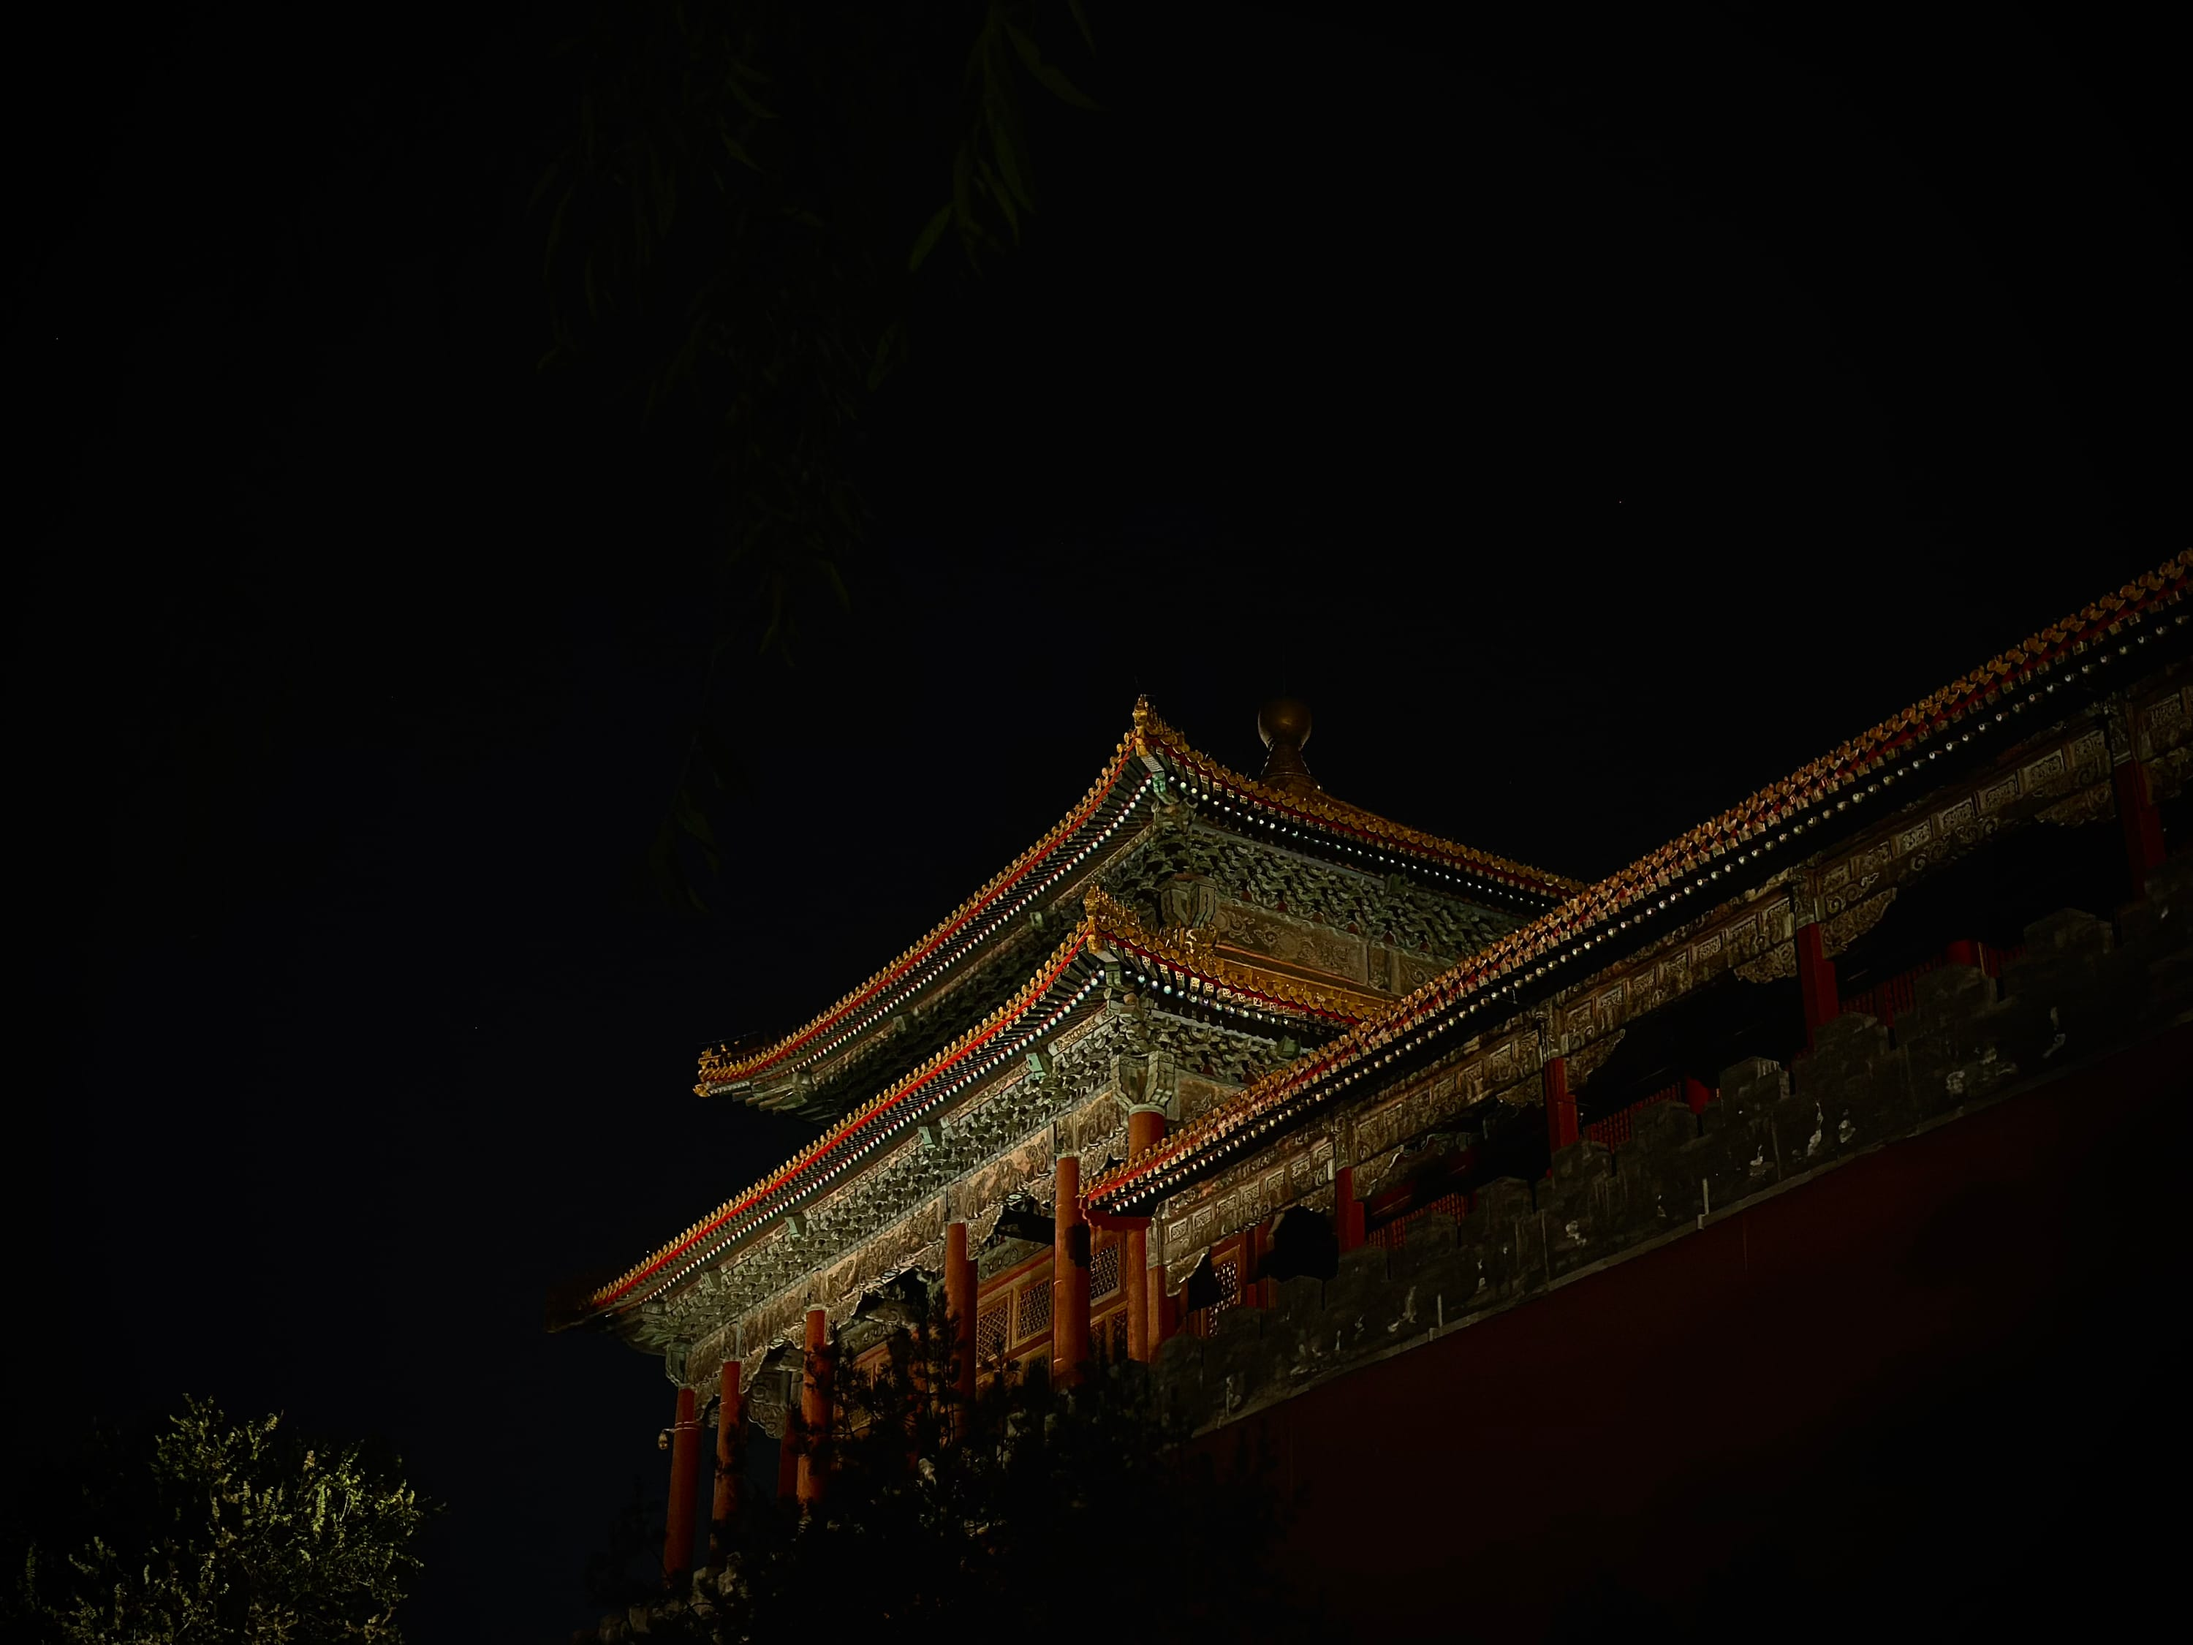
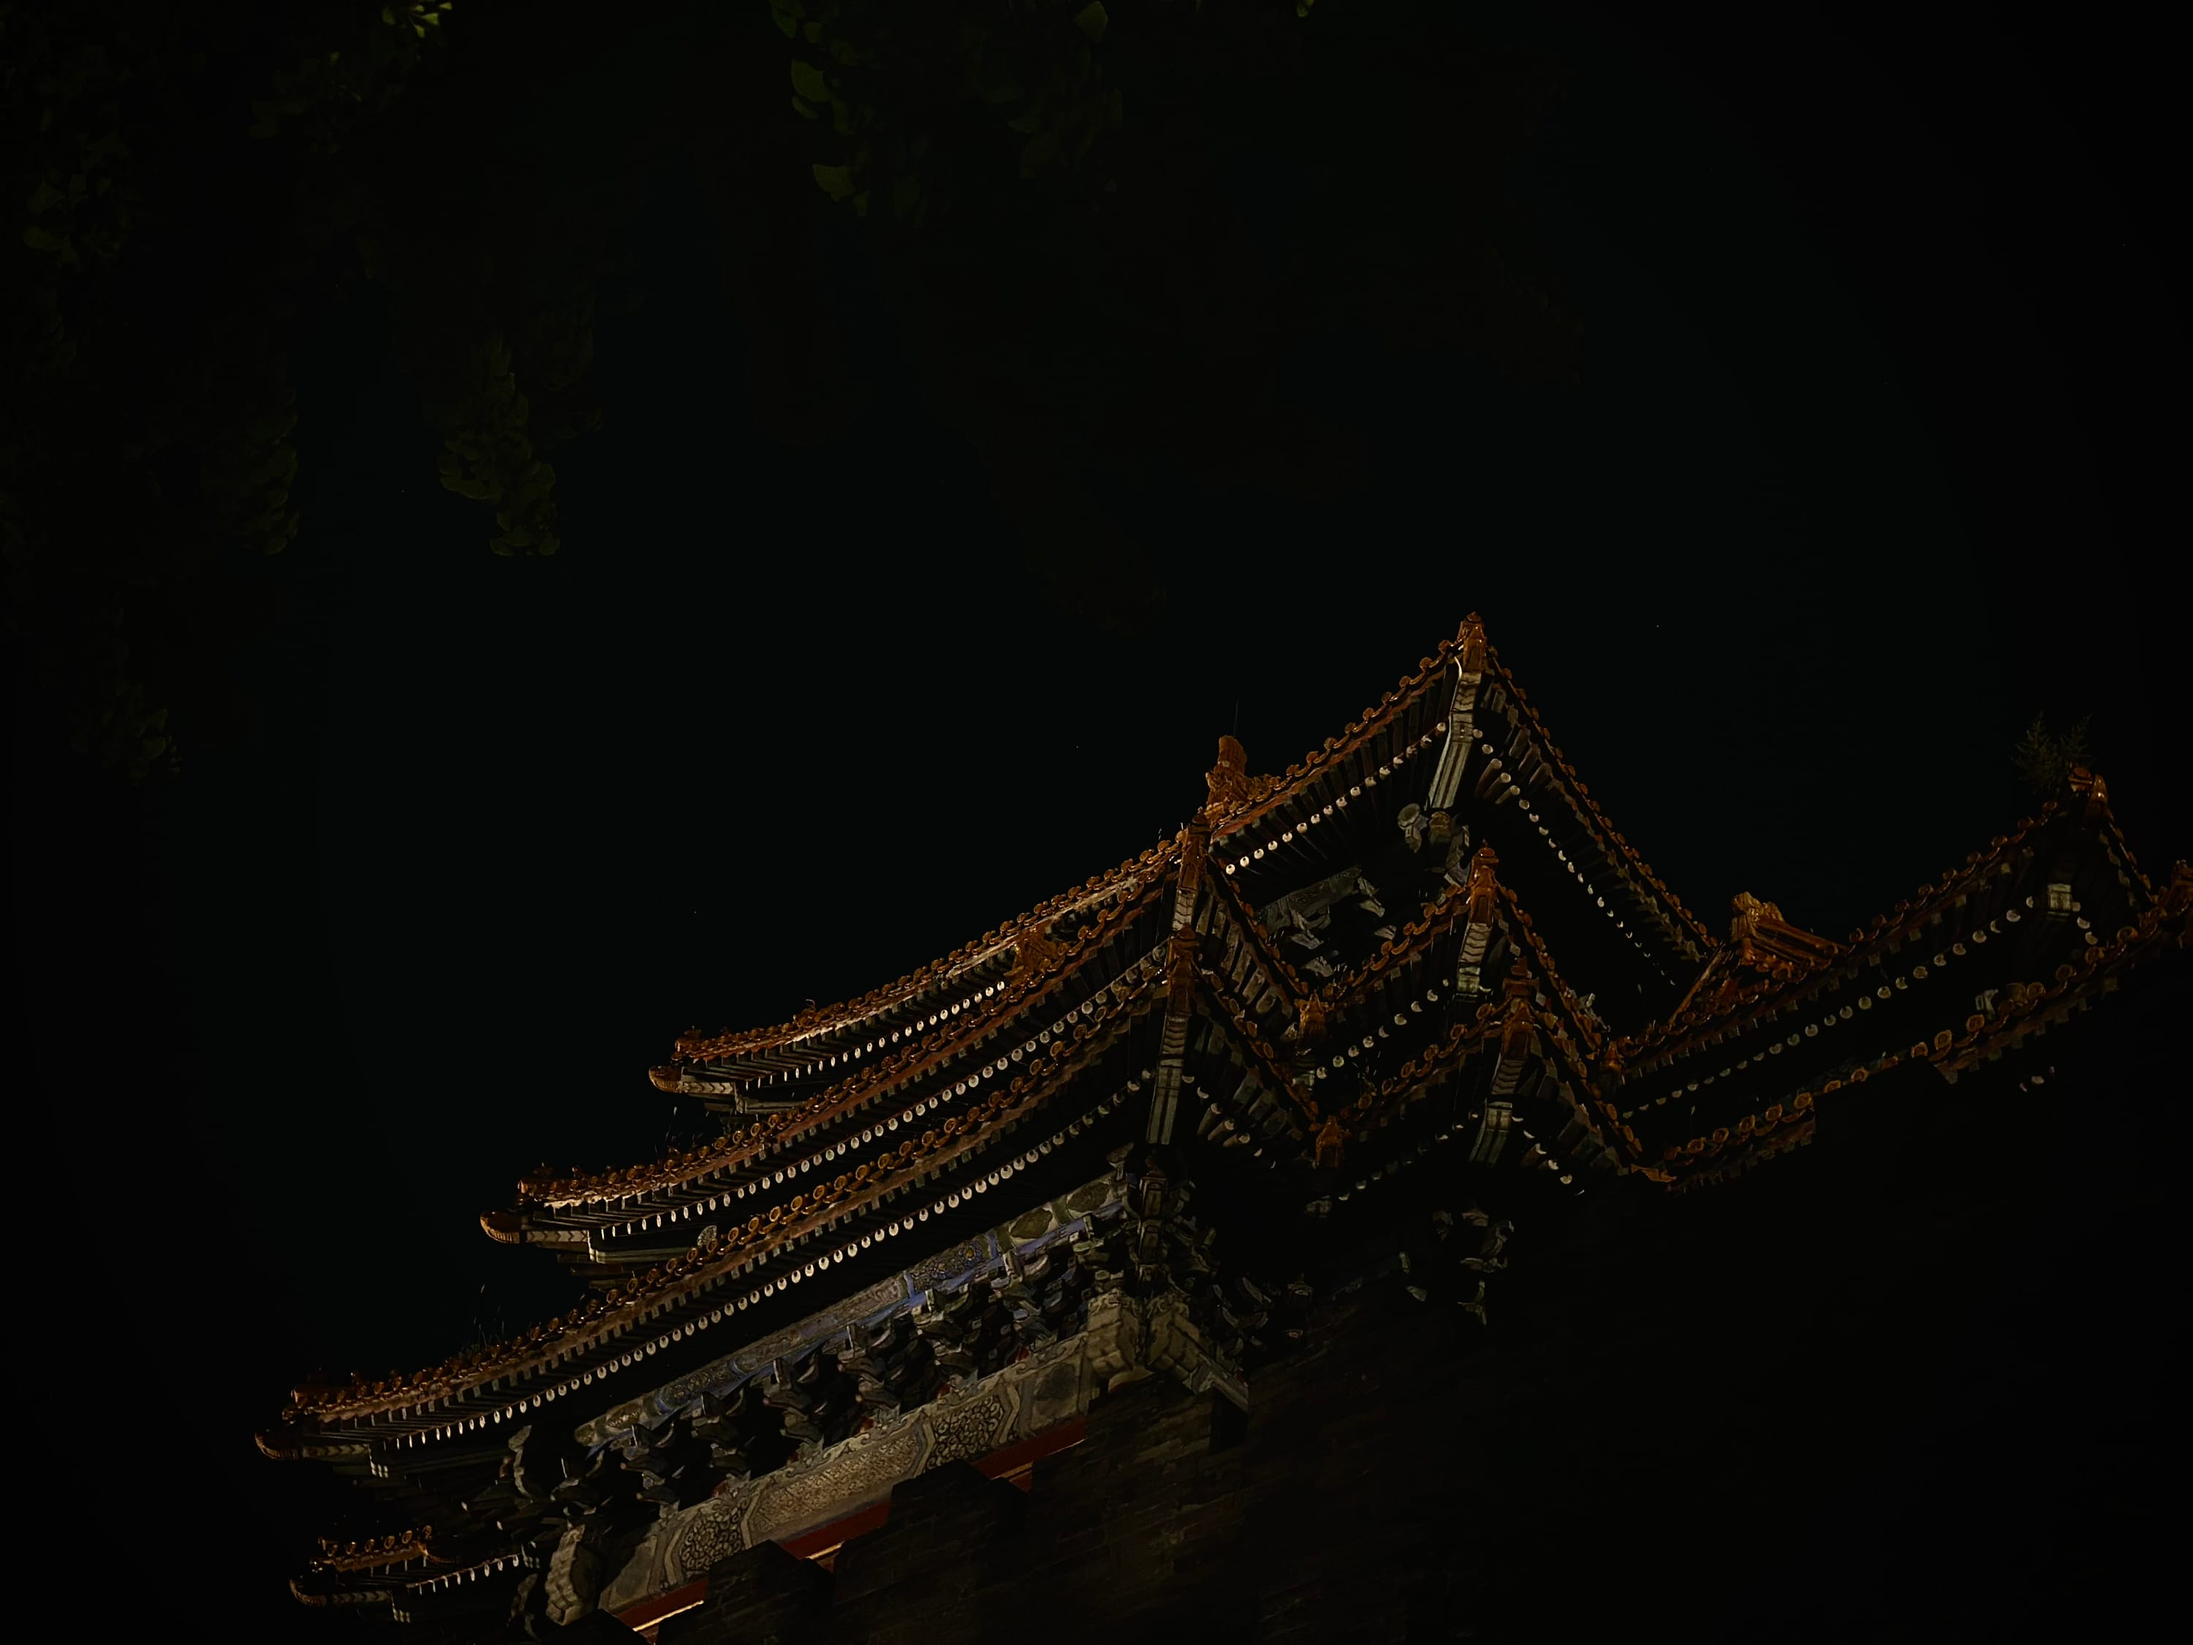
Changed Hero photos

diff --git a/src/content/hero.ts b/src/content/hero.ts
@@ -1,8 +1,18 @@
 import { Photo } from '@/content/types'
 import { photo } from '@/content/photo'
 
-export const heroSlides: Photo[] = [
-  photo('/photos/hero/first.jpg', 'Ночная набережная: подсвеченные небоскрёбы и синий мост отражаются в воде'),
-  photo('/photos/hero/second.jpg', 'Огни Москва-Сити ночью над тёмными кронами деревьев'),
-  photo('/photos/hero/third.jpg', 'Ночная панорама города в дымке, светящаяся эстакада на переднем плане'),
+export type HeroTone = 'dark' | 'light'
+
+export type HeroSlide = Photo & { tone: HeroTone }
+
+export const heroSlides: HeroSlide[] = [
+  {
+    ...photo('/photos/hero/first.jpg', 'Храм в Китае'),
+    tone: 'dark',
+  },
+  { ...photo('/photos/hero/second.jpg', 'Пекин утром'), tone: 'light' },
+  {
+    ...photo('/photos/hero/third.jpg', 'Великая китайская стена'),
+    tone: 'dark',
+  },
 ]

diff --git a/src/components/HeroCarousel/hero-carousel.tsx b/src/components/HeroCarousel/hero-carousel.tsx
@@ -2,18 +2,32 @@
 
 import React, { useCallback, useEffect, useRef, useState } from 'react'
 import styles from './hero-carousel.module.css'
+import type { HeroTone } from '@/content/hero'
 
 const AUTO_MS = 5500
 
 type HeroCarouselProps = {
   slides: React.ReactNode[]
+  tones?: HeroTone[]
 }
 
-export const HeroCarousel: React.FC<HeroCarouselProps> = ({ slides }) => {
+export const HeroCarousel: React.FC<HeroCarouselProps> = ({ slides, tones }) => {
   const [active, setActive] = useState(0)
 
   const timeRef = useRef<number | null>(null)
   const count = slides.length
+
+  const tone = tones?.[active] ?? 'dark'
+
+  useEffect(() => {
+    document.documentElement.dataset.heroTone = tone
+  }, [tone])
+
+  useEffect(() => {
+    return () => {
+      delete document.documentElement.dataset.heroTone
+    }
+  }, [])
 
   const stop = useCallback(() => {
     if (timeRef.current !== null) {

diff --git a/src/components/Nav/Nav.module.css b/src/components/Nav/Nav.module.css
@@ -3,6 +3,7 @@
     z-index: 1;
     color: var(--color-text);
     text-decoration: none;
+    transition: color 0.4s;
 
     display: flex;
     align-items: baseline;
@@ -38,10 +39,29 @@
 .link {
     color: var(--color-text-secondary);
     text-decoration: none;
-    transition: color 0.2s;
+    transition: color 0.4s;
 
     &:hover {
         color: var(--color-text)
+    }
+}
+
+
+:global(html[data-hero-tone="light"]) nav:not([data-solid="true"]):not([data-open="true"]) {
+    .left {
+        color: var(--color-bg);
+    }
+
+    .photographer {
+        color: rgba(11, 11, 12, 0.6);
+    }
+
+    .link {
+        color: rgba(11, 11, 12, 0.72);
+
+        &:hover {
+            color: var(--color-bg);
+        }
     }
 }
 

diff --git a/src/components/Hero/Hero.tsx b/src/components/Hero/Hero.tsx
@@ -14,10 +14,11 @@ export function Hero() {
     <header id="top" className={styles.hero}>
       <div className={styles.left}>
         <p className={styles.info}>Фотограф в Калининграде · портрет · события · сцена</p>
-        <h1 className={styles.title}>Ловлю то, что остаётся за кадром</h1>
+        <h1 className={styles.title}>Ловлю момент</h1>
       </div>
 
       <HeroCarousel
+        tones={heroSlides.map((slide) => slide.tone)}
         slides={heroSlides.map((slide, i) => (
           <Image
             key={slide.src}

diff --git a/src/components/NavShell/nav-shell.tsx b/src/components/NavShell/nav-shell.tsx
@@ -43,7 +43,7 @@ export function NavShell({ children }: { children: ReactNode }) {
   return (
     <>
       <div ref={sentinelRef} className={styles.sentinel} aria-hidden="true" />
-      <nav className={className} data-open={open} onClick={handleNavClick}>
+      <nav className={className} data-open={open} data-solid={solid} onClick={handleNavClick}>
         {children}
         <button
           type="button"

diff --git a/src/components/NavShell/nav-shell.module.css b/src/components/NavShell/nav-shell.module.css
@@ -49,6 +49,11 @@
     color: var(--color-text);
     cursor: pointer;
     flex-shrink: 0;
+    transition: color 0.4s;
+}
+
+:global(html[data-hero-tone="light"]) .nav:not([data-solid="true"]):not([data-open="true"]) .burger {
+    color: var(--color-bg);
 }
 
 .burgerLine {
